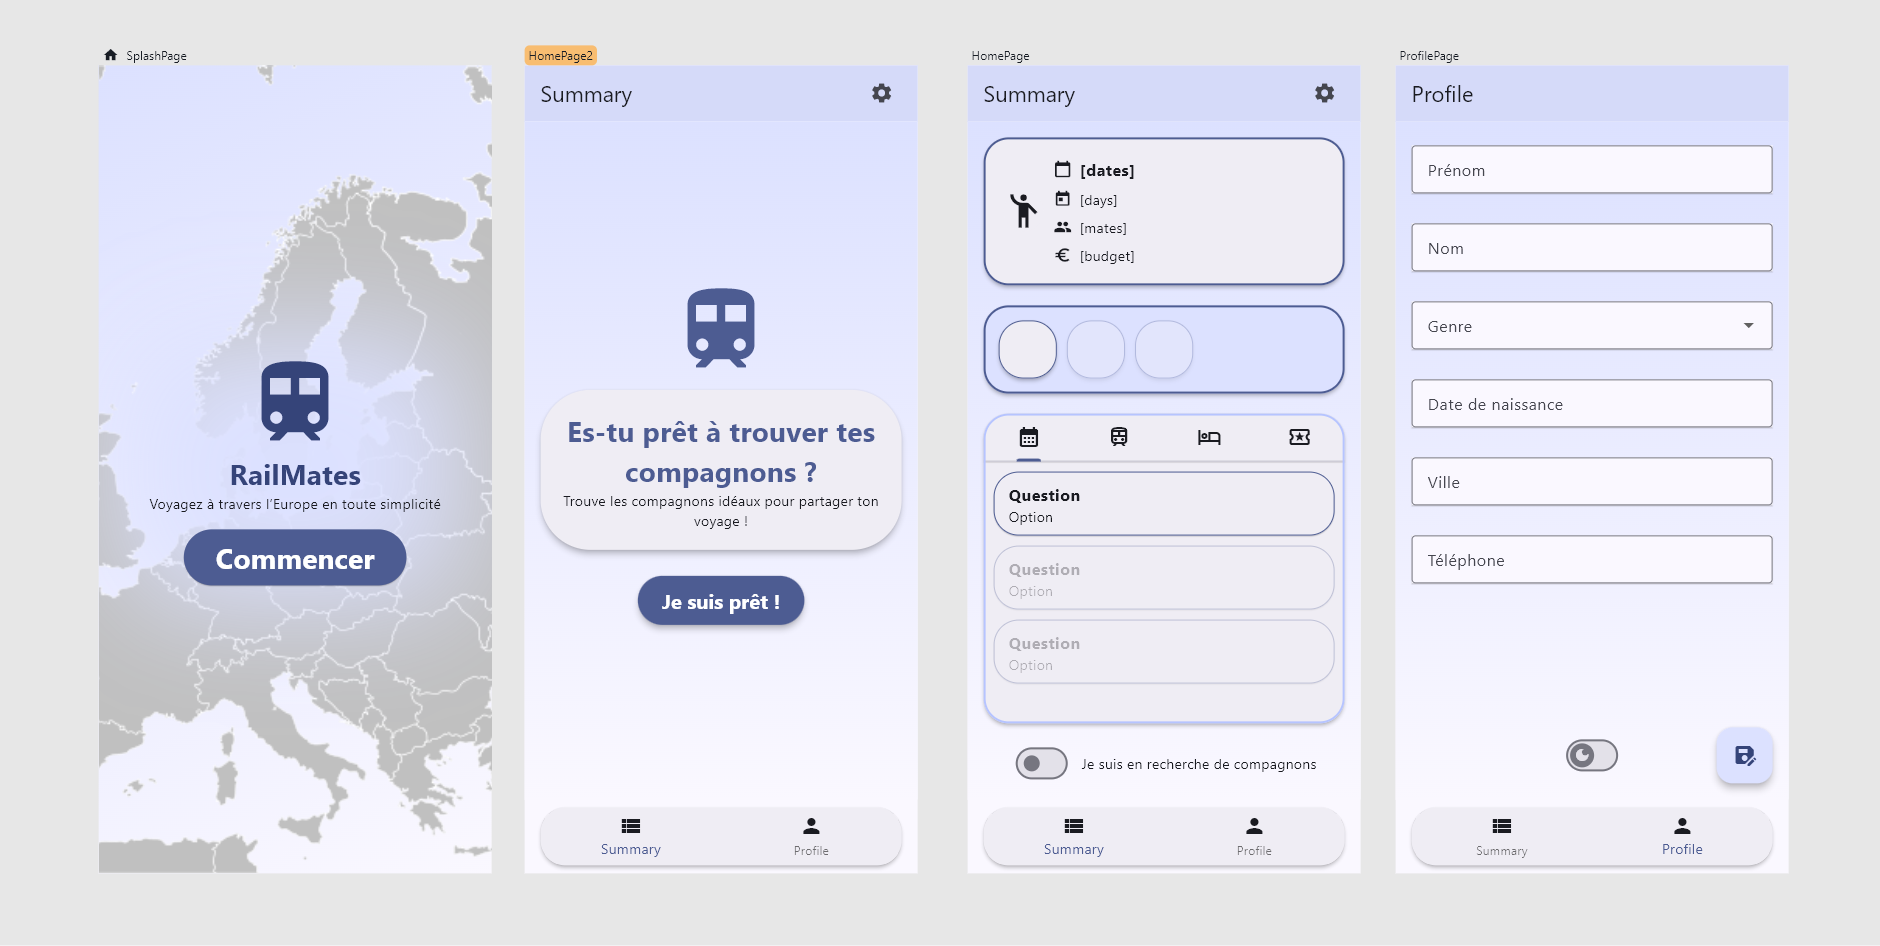
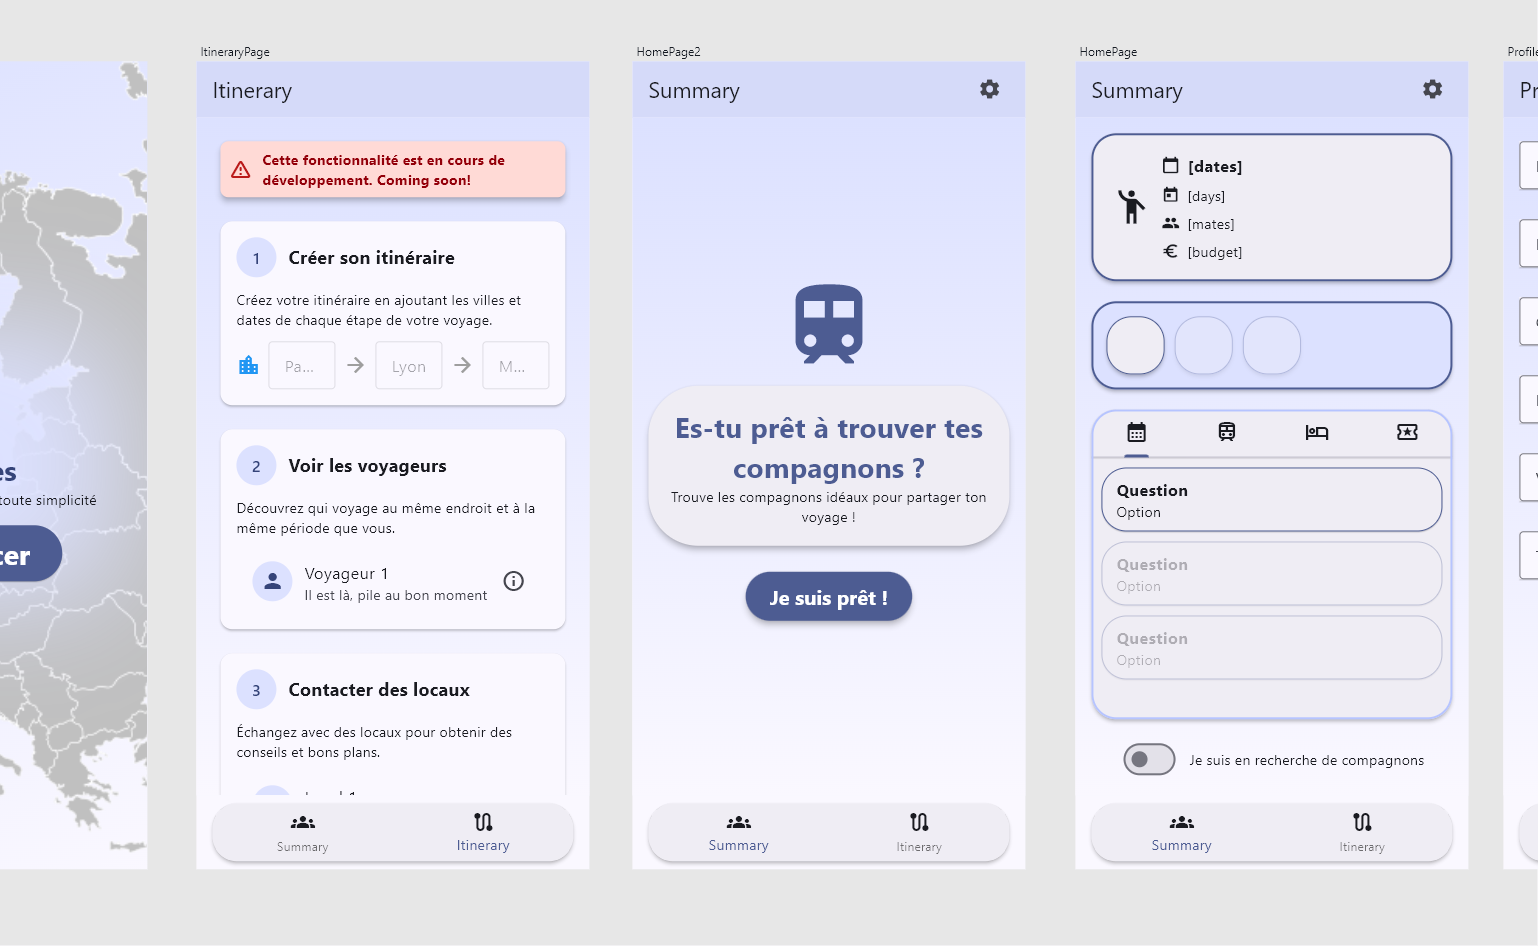
✨ Add Itinerary page with navigation and update nav bar

diff --git a/lib/pages/itinerary_page.dart b/lib/pages/itinerary_page.dart
@@ -1,0 +1,264 @@
+import 'package:flutter/material.dart';
+import 'package:go_router/go_router.dart';
+import 'package:nowa_runtime/nowa_runtime.dart';
+import 'package:railmates/components/nav_bar.dart';
+
+@NowaGenerated()
+class ItineraryPage extends StatefulWidget {
+  @NowaGenerated({'loader': 'auto-constructor'})
+  const ItineraryPage({super.key});
+
+  @override
+  State<ItineraryPage> createState() {
+    return _ItineraryPageState();
+  }
+}
+
+@NowaGenerated()
+class _ItineraryPageState extends State<ItineraryPage> {
+  TextEditingController text = TextEditingController();
+
+  @override
+  Widget build(BuildContext context) {
+    return Scaffold(
+      appBar: AppBar(
+        title: const Text('Itinerary'),
+        elevation: 1.0,
+        backgroundColor: Theme.of(context).colorScheme.primaryContainer,
+        actions: [
+          Padding(
+            padding: const EdgeInsets.symmetric(
+              vertical: 8.0,
+              horizontal: 16.0,
+            ),
+            child: IconButton(
+              onPressed: () {
+                GoRouter.of(context).push('/profile');
+              },
+              icon: const Icon(Icons.settings),
+            ),
+          ),
+        ],
+      ),
+      body: Container(
+        decoration: BoxDecoration(
+          gradient: LinearGradient(
+            colors: [
+              Theme.of(context).colorScheme.primaryContainer,
+              Theme.of(context).colorScheme.surface,
+            ],
+            begin: const AlignmentGeometry.xy(1.0, -1.0),
+            end: const AlignmentGeometry.xy(1.0, 1.0),
+          ),
+        ),
+        child: SingleChildScrollView(
+          child: SafeArea(
+            minimum: const EdgeInsets.symmetric(
+              vertical: 24.0,
+              horizontal: 24.0,
+            ),
+            child: Column(
+              spacing: 24.0,
+              children: [
+                Material(
+                  color: Theme.of(context).colorScheme.errorContainer,
+                  shape: RoundedRectangleBorder(
+                    borderRadius: BorderRadius.circular(8.0),
+                  ),
+                  elevation: 5.0,
+                  child: Padding(
+                    padding: const EdgeInsets.symmetric(
+                      vertical: 8.0,
+                      horizontal: 8.0,
+                    ),
+                    child: Row(
+                      mainAxisAlignment: MainAxisAlignment.start,
+                      spacing: 10.0,
+                      children: [
+                        Icon(
+                          Icons.warning_amber_rounded,
+                          color: Theme.of(context).colorScheme.error,
+                        ),
+                        Expanded(
+                          child: Text(
+                            'Cette fonctionnalité est en cours de développement. Coming soon!',
+                            style: TextStyle(
+                              color: Theme.of(
+                                context,
+                              ).colorScheme.onErrorContainer,
+                              fontWeight: FontWeight.bold,
+                            ),
+                          ),
+                        ),
+                      ],
+                    ),
+                  ),
+                ),
+                Material(
+                  elevation: 2.0,
+                  borderRadius: BorderRadius.circular(12.0),
+                  color: Theme.of(context).colorScheme.surface,
+                  child: Padding(
+                    padding: const EdgeInsets.all(16.0),
+                    child: Column(
+                      crossAxisAlignment: CrossAxisAlignment.start,
+                      spacing: 12.0,
+                      children: [
+                        const Row(
+                          spacing: 12.0,
+                          children: const [
+                            CircleAvatar(child: Text('1')),
+                            Text(
+                              'Créer son itinéraire',
+                              style: TextStyle(
+                                fontSize: 18.0,
+                                fontWeight: FontWeight.bold,
+                              ),
+                            ),
+                          ],
+                        ),
+                        const Text(
+                          'Créez votre itinéraire en ajoutant les villes et dates de chaque étape de votre voyage.',
+                        ),
+                        SizedBox(
+                          child: Row(
+                            spacing: 8.0,
+                            children: [
+                              const Icon(
+                                Icons.location_city,
+                                color: Colors.blue,
+                              ),
+                              Expanded(
+                                child: TextField(
+                                  enabled: false,
+                                  decoration: const InputDecoration(
+                                    labelText: 'Paris',
+                                    border: OutlineInputBorder(),
+                                  ),
+                                  controller: text,
+                                ),
+                              ),
+                              const Icon(
+                                Icons.arrow_forward,
+                                color: Colors.grey,
+                              ),
+                              const Expanded(
+                                child: TextField(
+                                  enabled: false,
+                                  decoration: InputDecoration(
+                                    labelText: 'Lyon',
+                                    border: OutlineInputBorder(),
+                                  ),
+                                ),
+                              ),
+                              const Icon(
+                                Icons.arrow_forward,
+                                color: Colors.grey,
+                              ),
+                              const Expanded(
+                                child: TextField(
+                                  enabled: false,
+                                  decoration: InputDecoration(
+                                    labelText: 'Marseille',
+                                    border: OutlineInputBorder(),
+                                  ),
+                                ),
+                              ),
+                            ],
+                          ),
+                        ),
+                      ],
+                    ),
+                  ),
+                ),
+                Material(
+                  elevation: 2.0,
+                  borderRadius: BorderRadius.circular(12.0),
+                  color: Theme.of(context).colorScheme.surface,
+                  child: Padding(
+                    padding: const EdgeInsets.all(16.0),
+                    child: Column(
+                      crossAxisAlignment: CrossAxisAlignment.start,
+                      spacing: 12.0,
+                      children: [
+                        const Row(
+                          spacing: 12.0,
+                          children: const [
+                            CircleAvatar(child: Text('2')),
+                            Text(
+                              'Voir les voyageurs',
+                              style: TextStyle(
+                                fontSize: 18.0,
+                                fontWeight: FontWeight.bold,
+                              ),
+                            ),
+                          ],
+                        ),
+                        const Text(
+                          'Découvrez qui voyage au même endroit et à la même période que vous.',
+                        ),
+                        SizedBox(
+                          child: ListTile(
+                            leading: const CircleAvatar(
+                              child: Icon(Icons.person),
+                            ),
+                            title: const Text('Voyageur 1'),
+                            subtitle: const Text(
+                              'Il est là, pile au bon moment',
+                            ),
+                            trailing: const Icon(Icons.info_outline),
+                            onTap: () {},
+                          ),
+                        ),
+                      ],
+                    ),
+                  ),
+                ),
+                Material(
+                  elevation: 2.0,
+                  borderRadius: BorderRadius.circular(12.0),
+                  color: Theme.of(context).colorScheme.surface,
+                  child: Padding(
+                    padding: const EdgeInsets.all(16.0),
+                    child: Column(
+                      crossAxisAlignment: CrossAxisAlignment.start,
+                      spacing: 12.0,
+                      children: [
+                        const Row(
+                          spacing: 12.0,
+                          children: const [
+                            CircleAvatar(child: Text('3')),
+                            Text(
+                              'Contacter des locaux',
+                              style: TextStyle(
+                                fontSize: 18.0,
+                                fontWeight: FontWeight.bold,
+                              ),
+                            ),
+                          ],
+                        ),
+                        const Text(
+                          'Échangez avec des locaux pour obtenir des conseils et bons plans.',
+                        ),
+                        ListTile(
+                          leading: const CircleAvatar(
+                            child: Icon(Icons.location_on),
+                          ),
+                          title: const Text('Local 1'),
+                          subtitle: const Text('Disponible pour discuter'),
+                          trailing: const Icon(Icons.chat),
+                          onTap: () {},
+                        ),
+                      ],
+                    ),
+                  ),
+                ),
+              ],
+            ),
+          ),
+        ),
+      ),
+      bottomNavigationBar: const NavBar(index: 1),
+    );
+  }
+}

diff --git a/lib/components/nav_bar.dart b/lib/components/nav_bar.dart
@@ -25,17 +25,17 @@ class NavBar extends StatelessWidget {
             items: [
               BottomNavigationBarItem(
                 icon: Icon(
-                  Icons.view_list,
+                  Icons.groups,
                   color: Theme.of(context).colorScheme.onSurface,
                 ),
                 label: 'Summary',
               ),
               BottomNavigationBarItem(
                 icon: Icon(
-                  Icons.person,
+                  Icons.route,
                   color: Theme.of(context).colorScheme.onSurface,
                 ),
-                label: 'Profile',
+                label: 'Itinerary',
               ),
             ],
             currentIndex: index,
@@ -44,7 +44,7 @@ class NavBar extends StatelessWidget {
                 return;
               }
               if (value == 1) {
-                GoRouter.of(context).go('/profile');
+                GoRouter.of(context).go('/itinerary');
               } else {
                 final complete = await SupabaseService()
                     .getUserCompatibilityComplete();

diff --git a/lib/globals/router.dart b/lib/globals/router.dart
@@ -17,6 +17,7 @@ import 'package:railmates/pages/compatibility_questions_page.dart';
 import 'package:railmates/pages/compatibility_ready_page.dart';
 import 'package:railmates/pages/home_page2.dart';
 import 'package:railmates/pages/splash_page.dart';
+import 'package:railmates/pages/itinerary_page.dart';
 import 'package:nowa_runtime/nowa_runtime.dart';
 
 @NowaGenerated()
@@ -131,5 +132,9 @@ final GoRouter appRouter = GoRouter(
       builder: (context, state) => const HomePage2(),
     ),
     GoRoute(path: '/', builder: (context, state) => const SplashPage()),
+    GoRoute(
+      path: '/itinerary',
+      builder: (context, state) => const ItineraryPage(),
+    ),
   ],
 );
